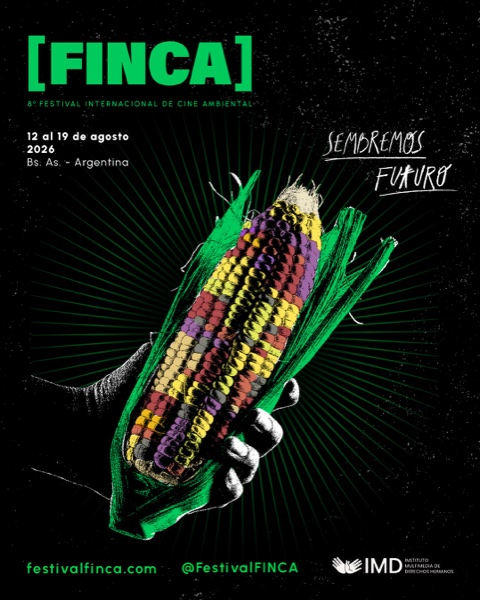
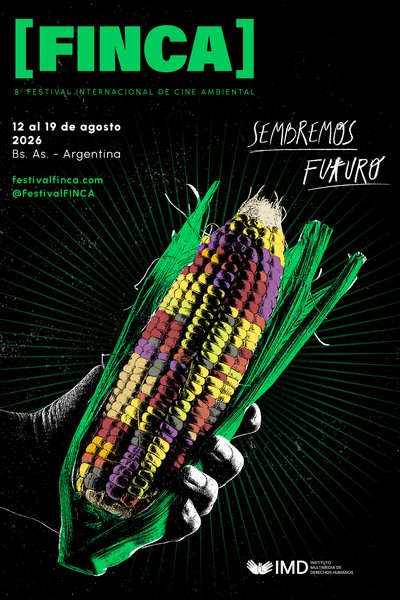
fix(finca): keyArt desde el afiche vertical oficial — sin recorte de fecha ni lema
El keyArt anterior salía de la lámina de IG (4:5): el marco 2:3 del riel
recortaba ~17% del ancho y se comía la fecha y 'futuro'. El press kit trae
FINCA_Poster_vertical.jpg (4134×5906, ratio 0.700): recorte centrado a 2:3
→ 400×600 q85. La card muestra el afiche completo.

diff --git a/index.html b/index.html
@@ -59,8 +59,8 @@ window.sentryOnLoad = function() {
      contraste en la pestaña ("borde blanco"). La marca flotante contrasta sola
      en tema claro y oscuro — sin caja, sin backdrop. El apple-touch-icon del
      home screen conserva el ícono completo con fondo (ahí sí corresponde). -->
-<link rel="icon" type="image/png" sizes="32x32" href="/favicon.png?v=202607291024">
-<link rel="icon" type="image/png" sizes="192x192" href="/favicon-192.png?v=202607291024">
+<link rel="icon" type="image/png" sizes="32x32" href="/favicon.png?v=202607291028">
+<link rel="icon" type="image/png" sizes="192x192" href="/favicon-192.png?v=202607291028">
 <!-- Caching gestionado por el Service Worker (sw.js) — Network First para HTML -->
 <title>Otrofestiv — Tú decides el festival</title>
 <meta name="description" content="Tu agenda personal para festivales de cine. Explorá, planificá y sacá el máximo de cada festival.">
@@ -2983,7 +2983,7 @@ setTimeout(function(){
   function bootApp(){
     var s = document.createElement('script');
     s.type = 'module';
-    s.src="/src/main.js?v=202607291024";
+    s.src="/src/main.js?v=202607291028";
     document.body.appendChild(s);
     // Watchdog de boot (P0 18 jul): si el grafo ESM murió en el import (caché
     // HTTP mixta tras deploys en ráfaga — main.js nuevo + módulo viejo sin el

diff --git a/sw.js b/sw.js
@@ -9,8 +9,8 @@
 //      el reload forzado por deploy, se sirve ese HTML en vez de OFFLINE_HTML (una
 //      sesión viva ya no se destruye por un deploy con señal mala). Audit P3 #10.
 
-const CACHE_NAME = 'otrofestiv-v202607291024';
-const BUILD = '202607291024';
+const CACHE_NAME = 'otrofestiv-v202607291028';
+const BUILD = '202607291028';
 // Caché PERSISTENTE de assets inmutables (pósters, iconos, fonts): NO se borra
 // en activate. Durante un festival deployamos a diario; sin esto, cada deploy
 // obligaba a re-descargar ~8MB de pósters ya vistos (señal rural en sede).

diff --git a/src/main.js b/src/main.js
@@ -446,7 +446,7 @@ FESTIVAL_STORAGE_KEY=(storage.getActiveFestId()||_DEFAULT_FEST_ID)+'_';
 // BUILD_VERSION: cambia en cada deploy.
 // Al cargar, compara con localStorage. Si difiere → reload duro.
 // sessionStorage evita loops infinitos dentro de la misma sesión.
-const BUILD_VERSION='202607291024';
+const BUILD_VERSION='202607291028';
 (function(){
   // _vk eliminado — el build version se accede vía storage.getBuild()/setBuild()
   const _sk='otrofestiv_reloaded';

diff --git a/CLAUDE.md b/CLAUDE.md
@@ -3,7 +3,7 @@
 > No editar a mano — los cambios se sobreescriben en el próximo deploy.
 > Para modificar secciones estáticas, editar el template en el script.
 >
-> Último commit: `afb2cf6 fix(finca): CI en verde — arquetipos estáticos, posterSource, day_order, tests del riel dinámicos (#447)`
+> Último commit: `871fca9 fix(tests): T08 acota el riel a #splash-rail — el sheet duplica las cards (#448)`
 
 ---
 
